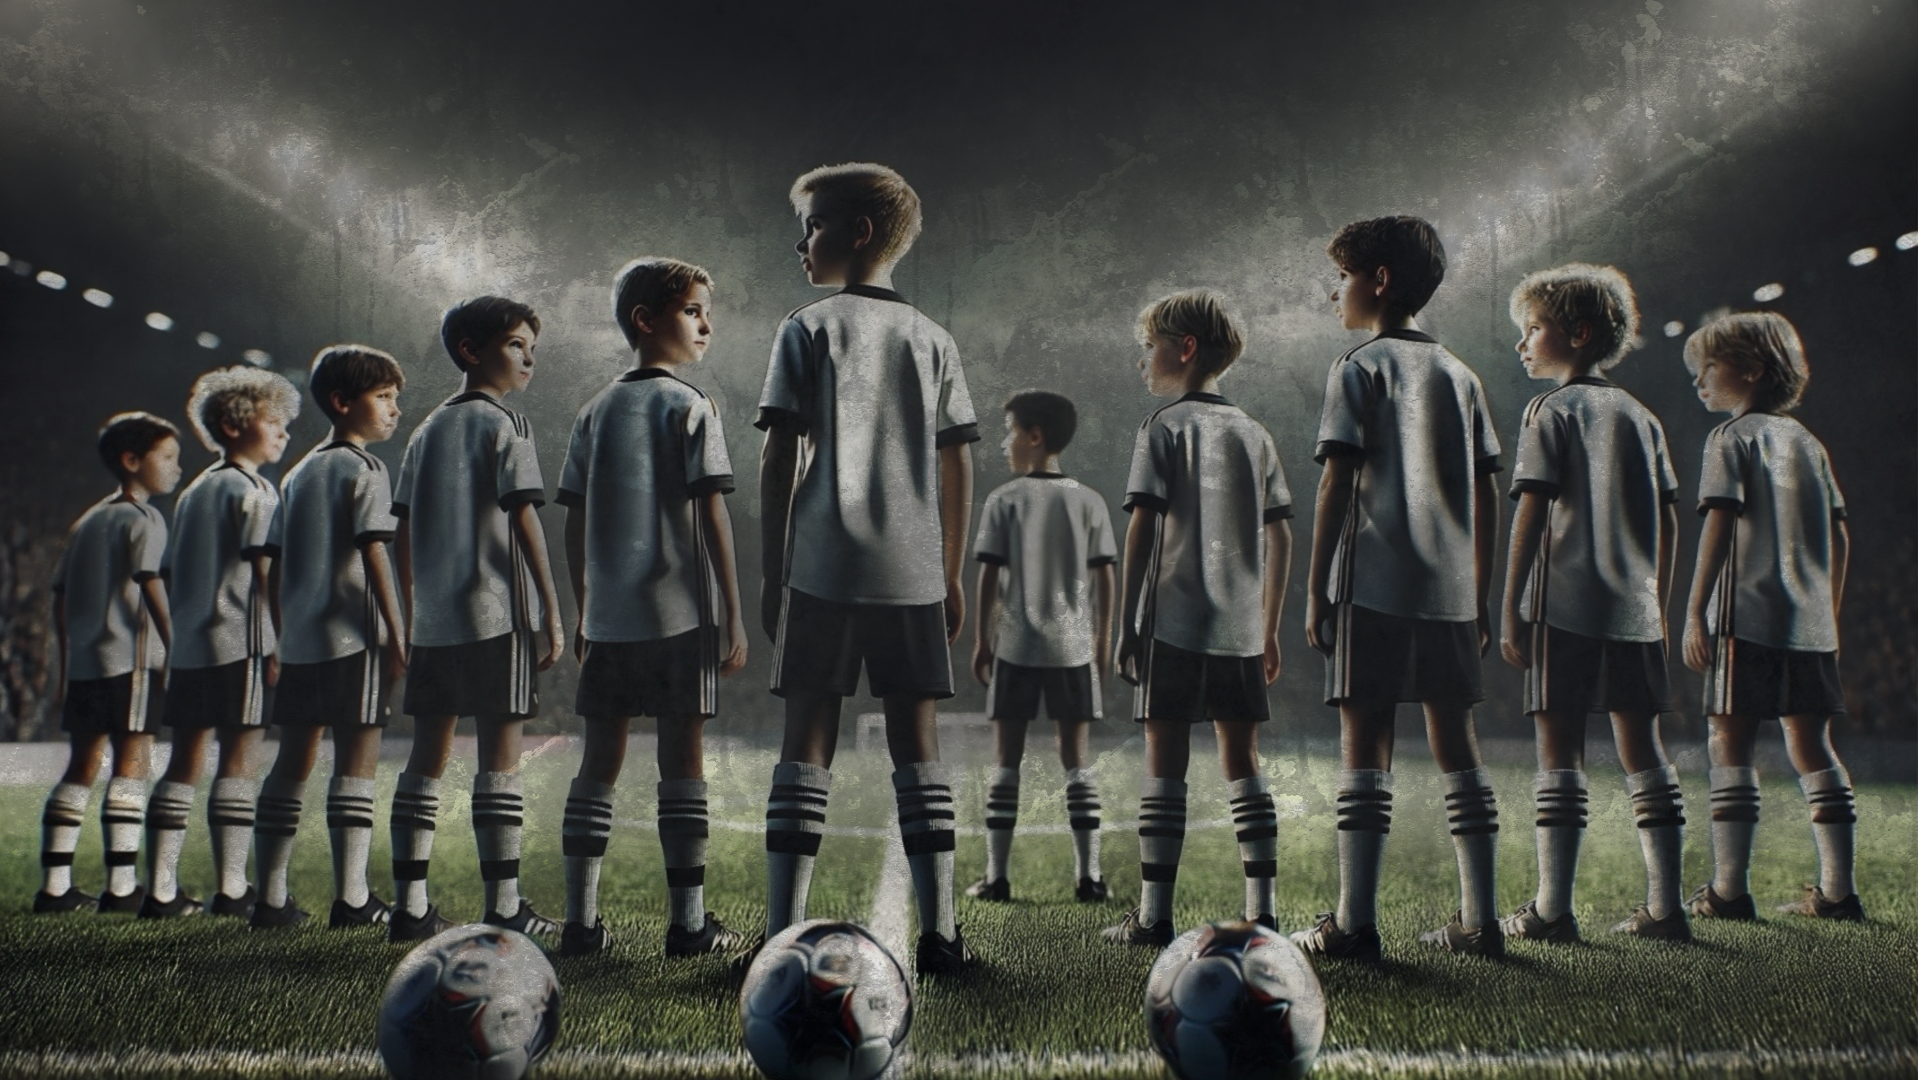
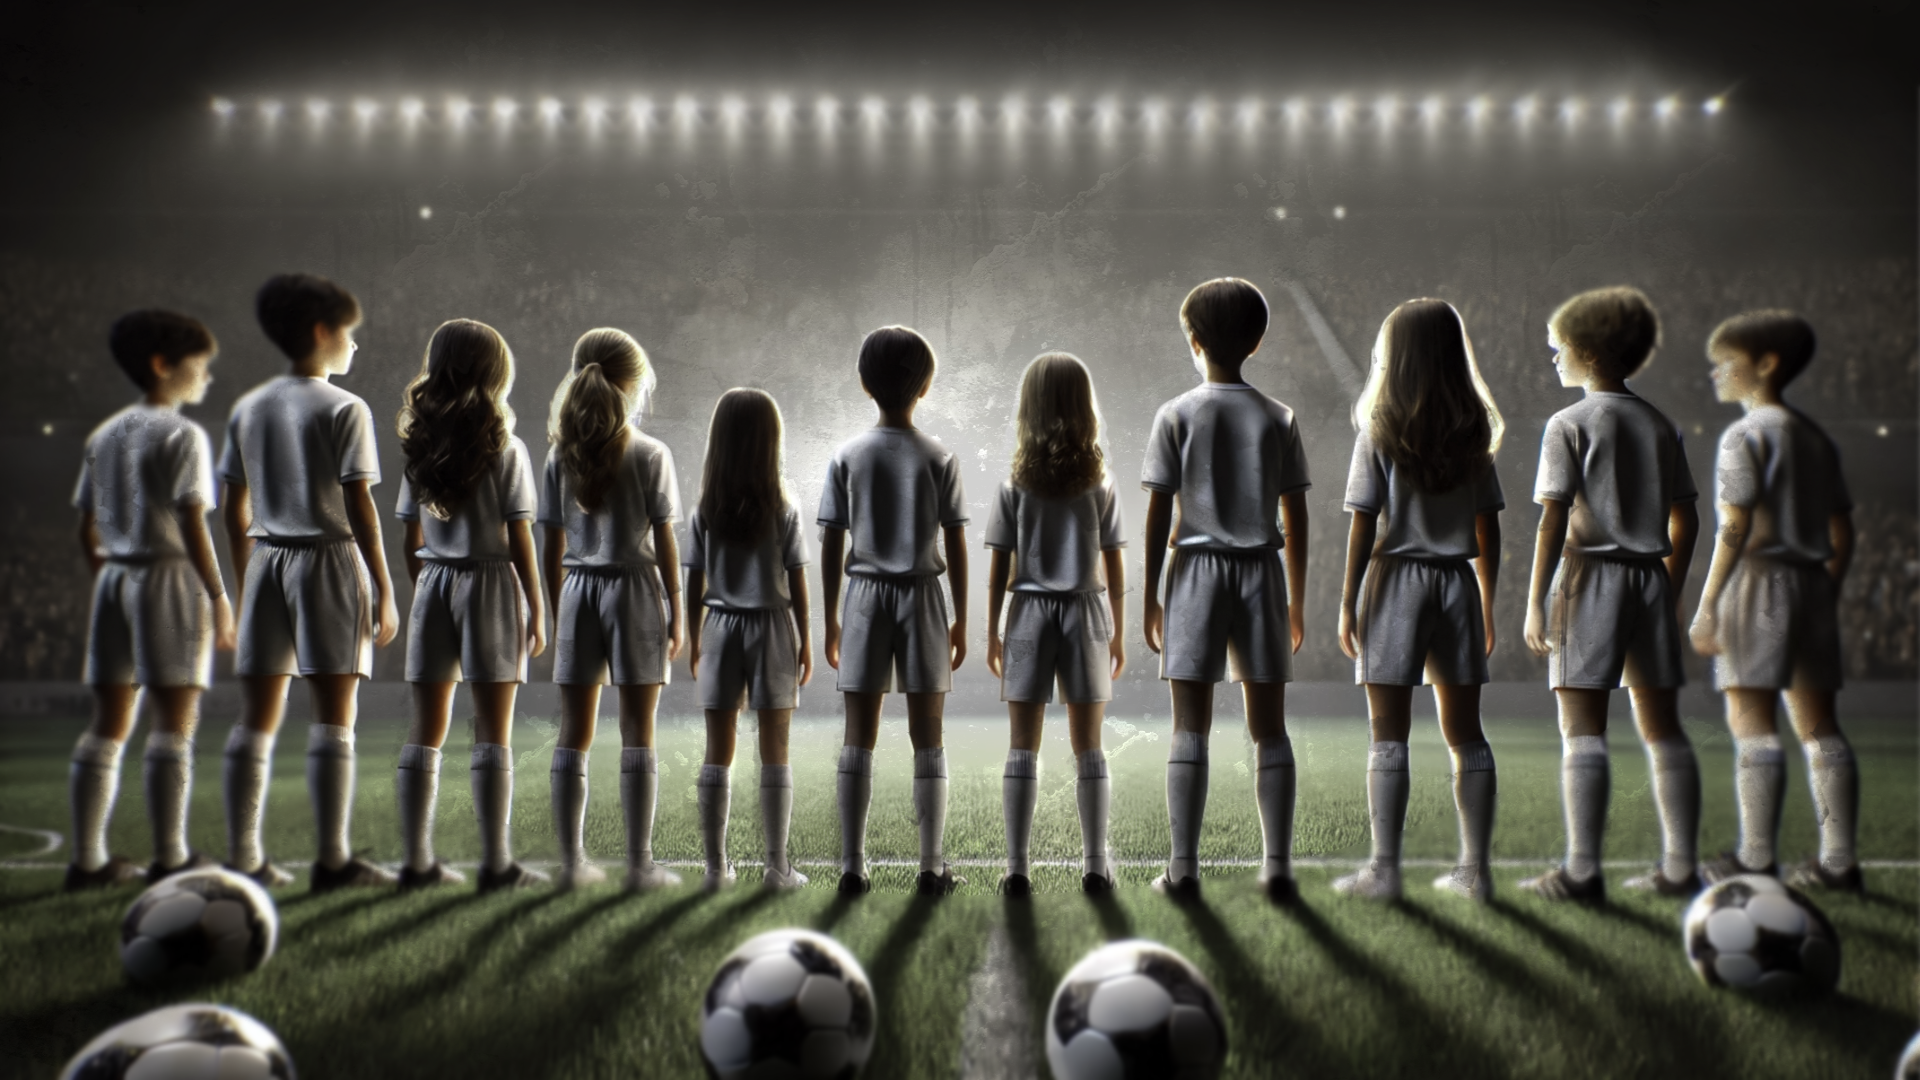
Added grid, added new BG, added contact button

diff --git a/src/app/page.tsx b/src/app/page.tsx
@@ -38,6 +38,14 @@ export default function Home() {
             <div className={`${styles.gridItem} ${oswald.className}`}>
               <h2>Hjärtefrågor</h2>
               <p className={barlowCondensed.className}>
+                <div>
+                  <Image
+                    src={partnerBild}
+                    alt="Partner"
+                    width={200}
+                    className={styles.partnerImage}
+                  />
+                </div>
                 Som vår samarbetspartner blir du en vardagshjälte för många på
                 det sätt du och din verksamhet bidrar med i det lokala
                 ekonomiska kretsloppet.
@@ -46,6 +54,14 @@ export default function Home() {
             <div className={`${styles.gridItem} ${oswald.className}`}>
               <h2>Så Jobbar Vi</h2>
               <p className={barlowCondensed.className}>
+                <div>
+                  <Image
+                    src={partnerBild}
+                    alt="Partner"
+                    width={200}
+                    className={styles.partnerImage}
+                  />
+                </div>
                 Som vår samarbetspartner blir du en vardagshjälte för många på
                 det sätt du och din verksamhet bidrar med i det lokala
                 ekonomiska kretsloppet.
@@ -54,6 +70,14 @@ export default function Home() {
             <div className={`${styles.gridItem} ${oswald.className}`}>
               <h2>Vem är vi?</h2>
               <p className={barlowCondensed.className}>
+                <div>
+                  <Image
+                    src={partnerBild}
+                    alt="Partner"
+                    width={200}
+                    className={styles.partnerImage}
+                  />
+                </div>
                 Som vår samarbetspartner blir du en vardagshjälte för många på
                 det sätt du och din verksamhet bidrar med i det lokala
                 ekonomiska kretsloppet.

diff --git a/src/app/page.module.css b/src/app/page.module.css
@@ -38,6 +38,7 @@
   gap: 25px;
   justify-content: center;
   align-items: center;
+  margin: 0 30px;
 }
 
 .gridItem {
@@ -45,22 +46,26 @@
   justify-content: center;
   align-items: center;
   flex-direction: column;
-  width: 400px;
-  height: 450px;
+  width: 100%;
+  height: 400px;
   color: #d4f4f8e3;
-  background: linear-gradient(20deg, #262929d2 60%, #d4f4f8e3);
-  border-radius: 18px;
+  background: linear-gradient(20deg, #262929b5 60%, #d4f4f8ba);
+  border-radius: 18 18 0 0;
   padding: 20px;
+  border-left: 1px solid #d4f4f88f;
+  border-right: 1px solid #d4f4f88f;
+  border-top: 1px solid #d4f4f88f;
+  box-shadow: 0 0 15px #000000d2;
 }
 
 .gridItem h2 {
-  font-size: 34px;
+  font-size: 24px;
   font-weight: 600;
   text-transform: uppercase;
 }
 
 .gridItem p {
-  font-size: 20px;
+  font-size: 18px;
   font-weight: 200;
   text-align: center;
 }

diff --git a/src/app/components/header/Header.module.css b/src/app/components/header/Header.module.css
@@ -41,7 +41,7 @@
 .contactButton {
   width: 200px;
   height: 50px;
-  background: linear-gradient(20deg, #262929 50%, #d4f4f8a2);
+  background: linear-gradient(20deg, #262929d2 50%, #d4f4f8e3);
   color: white;
   border: none;
   border-radius: 4px;
@@ -49,8 +49,9 @@
   transition: background-color 0.2s;
   font-size: 18px;
   box-shadow: 0 0px 5px #d4f4f8;
+  transition: 0.5s ease-in-out;
 }
 
 .contactButton:hover {
-  background-color: #0056b3;
+  transform: scale(1.05);
 }

diff --git a/src/app/globals.css b/src/app/globals.css
@@ -8,6 +8,7 @@ html,
 body {
   max-width: 100vw;
   overflow-x: hidden;
+  background-color: #000000;
 }
 
 a {
